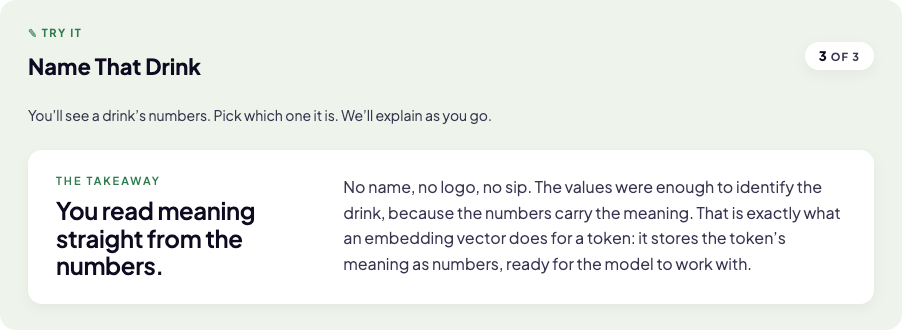
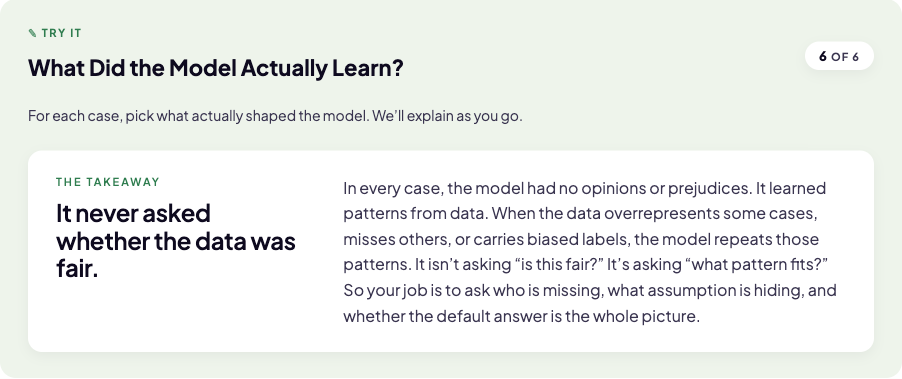
Embeddings: rework intro, Taste Profile table, defer "embedding vector", parallel Name That Drink
- Open the vector explanation with the taste-test setup (vector /
  Dimension / Value only); drop the [9,1,10,2,3,8] and embedding-vector
  paragraphs
- Taste Profile: rename Coffee, add a Token ID column, group the six
  slots under a Dimensions header, add Token/Token ID headings
  (black/800, darker Dimensions rule)
- Rename "Black Coffee" -> "Coffee" across Embeddings and Vector Space
- Defer the term "embedding vector" out of Embeddings (now just
  "vector"); introduce it in Black Box where the embedding table and
  parameters debut
- Convert Name That Drink from sequential to parallel (ScenarioRow +
  FeedbackPill, per-option feedback); replace its Takeaway with a
  KeyInsight that reveals on completion
- Recapture docs/components/try-it-takeaway.png from "What Did the Model
  Actually Learn?" (Training Bias Trap) and update the README citation

Log the changes in briefing.md.

diff --git a/index.html b/index.html
@@ -4948,22 +4948,20 @@ function GoDeeper(props) {
 }
 function NameThatDrinkTryIt(props) {
   var E = React.createElement;
-  var _di = React.useState(0), drinkIdx = _di[0], setDrinkIdx = _di[1];
-  var _dg = React.useState(null), drinkGuess = _dg[0], setDrinkGuess = _dg[1];
-  var _ds = React.useState(true), drinkStarted = _ds[0], setDrinkStarted = _ds[1];
+  var _a = useState({}), answers = _a[0], setAnswers = _a[1];
   var questions = [
     {
       dims: [["Sweet", 9], ["Fizz", 10]],
       options: [
         { label: "\uD83E\uDD64 Coke", correct: true, headline: "Right.", feedback: "High sweet and high fizz point straight at Coke." },
-        { label: "\u2615 Black Coffee", correct: false, headline: "Not this one.", hint: "Coffee is not sweet, and it is not fizzy. Look at those two numbers again.", feedback: "Coffee is not sweet or fizzy. Those two numbers are screaming soda." }
+        { label: "\u2615 Coffee", correct: false, headline: "Not this one.", hint: "Coffee is not sweet, and it is not fizzy. Look at those two numbers again.", feedback: "Coffee is not sweet or fizzy. Those two numbers are screaming soda." }
       ]
     },
     {
       dims: [["Bitter", 9], ["Heat", 9]],
       options: [
         { label: "\uD83E\uDD64 Coke", correct: false, headline: "Not this one.", hint: "Coke is not bitter, and it is served cold. These numbers say something hot and bitter.", feedback: "Coke is cold and sweet, not hot and bitter. The numbers point elsewhere." },
-        { label: "\u2615 Black Coffee", correct: true, headline: "Right.", feedback: "High bitter and high heat is black coffee." }
+        { label: "\u2615 Coffee", correct: true, headline: "Right.", feedback: "High bitter and high heat is coffee." }
       ]
     },
     {
@@ -4976,67 +4974,69 @@ function NameThatDrinkTryIt(props) {
       ]
     }
   ];
-  var q = questions[Math.min(drinkIdx, questions.length - 1)];
-  var dimText = q.dims.map(function(d) { return d[0] + " of " + d[1]; }).join(" and ");
-  var statement = (q.title ? q.title + ": " : "") + "Which drink has " + dimText + "?";
-  var isLastDrink = drinkIdx === questions.length - 1;
+  var answeredCount = Object.keys(answers).length;
+  var done = answeredCount >= questions.length;
+  useEffect(function() { if (done && props && props.onComplete) props.onComplete(); }, [done]);
   return E(InteractiveBox, {
     variant: "try",
     surface: "mint",
     title: "Name That Drink",
-    action: E(ActivityCounter, { count: Math.min(drinkIdx + (drinkStarted ? 1 : 0), questions.length), total: questions.length })
+    action: E(ActivityCounter, { count: answeredCount, total: questions.length })
   },
-    E(ActivityInstruction, null, "You’ll see a drink’s numbers. Pick which one it is. We’ll explain as you go."),
-    E(RevealSequence, {
-      surface: "mint",
-      items: questions,
-      currentIdx: drinkIdx,
-      started: drinkStarted,
-      onStart: function() { setDrinkStarted(true); },
-      onNext: function() {
-        if (isLastDrink && props && props.onComplete) props.onComplete();
-        setDrinkIdx(function(i) { return i + 1; });
-        setDrinkGuess(null);
-      },
-      canAdvance: drinkGuess !== null,
-      isComplete: drinkIdx >= questions.length,
-      startLabel: "See First Drink",
-      nextLabel: "Next Drink →",
-      finishLabel: "Wrap it up →",
-      completionElement: E(Takeaway, { accent: "var(--tryAccent)", headline: "You read meaning straight from the numbers.", body: "No name, no logo, no sip. The values were enough to identify the drink, because the numbers carry the meaning. That is exactly what an embedding vector does for a token: it stores the token’s meaning as numbers, ready for the model to work with." })
-    },
-      E(InnerCard, null,
-        E(QuizBlock, {
-          key: drinkIdx,
-          questionNumber: drinkIdx + 1,
-          surface: "mint",
-          statement: statement,
-          totalQuestions: questions.length,
-          options: q.options,
-          picked: drinkGuess != null ? drinkGuess : undefined,
-          onAnswer: function(idx) { setDrinkGuess(idx); }
-        }))));
+    E(ActivityInstruction, null, "Each row shows a drink’s numbers. Read them and pick which drink it is."),
+    E(InnerCard, { style: { display: "flex", flexDirection: "column" } },
+      questions.map(function(q, i) {
+        var picked = answers[i];
+        var answered = picked !== undefined;
+        var opt = answered ? q.options[picked] : null;
+        return E(ScenarioRow, {
+          key: i,
+          index: i + 1,
+          kicker: q.title || null,
+          prompt: E(React.Fragment, null, "Which drink has ", E("strong", null, q.dims[0][0] + " of " + q.dims[0][1]), " and ", E("strong", null, q.dims[1][0] + " of " + q.dims[1][1]), "?"),
+          answered: answered,
+          correct: answered && opt.correct,
+          headline: answered ? opt.headline : null,
+          feedback: answered ? opt.feedback : null
+        }, q.options.map(function(o, oi) {
+          return E(FeedbackPill, {
+            key: oi,
+            answered: answered,
+            isCorrect: o.correct,
+            isPicked: picked === oi,
+            label: o.label,
+            onClick: function() { setAnswers(function(prev) { return Object.assign({}, prev, Object.fromEntries([[i, oi]])); }); }
+          });
+        }));
+      })));
 }
 function EmbeddingsSection(props) {
   var E = React.createElement;
   var _mc = useState(false), meaningComplete = _mc[0], setMeaningComplete = _mc[1];
   var tpDims = ["Sweet", "Bitter", "Fizz", "Heat", "Caffeine", "Dark"];
   var tpDrinks = [
-    { emoji: "🥤", name: "Coke", vals: [9, 1, 10, 2, 3, 8], pillBg: "#fbdfe2", pillFg: "#e6394d" },
-    { emoji: "☕", name: "Black Coffee", vals: [1, 9, 0, 9, 8, 10], pillBg: "#e7dcf4", pillFg: "#7b3aa6" }
+    { emoji: "🥤", name: "Coke", tokenId: 24317, vals: [9, 1, 10, 2, 3, 8], pillBg: "#fbdfe2", pillFg: "#e6394d" },
+    { emoji: "☕", name: "Coffee", tokenId: 51820, vals: [1, 9, 0, 9, 8, 10], pillBg: "#e7dcf4", pillFg: "#7b3aa6" }
   ];
-  var tpCols = "minmax(116px, 150px) repeat(6, minmax(50px, 1fr))";
-  var tpHead = { fontSize: 11, fontWeight: 700, color: "#6e6757", textTransform: "uppercase", letterSpacing: "1.5px" };
+  var tpCols = "minmax(110px, 150px) minmax(72px, 96px) repeat(6, minmax(46px, 1fr))";
+  var tpHead = { fontSize: 11, fontWeight: 800, color: "var(--ink)", textTransform: "uppercase", letterSpacing: "1.5px" };
+  var tpColHead = { fontSize: 11, fontWeight: 700, color: "#6e6757", textTransform: "uppercase", letterSpacing: "0.6px", textAlign: "center" };
+  var tpColHeadBold = { fontSize: 11, fontWeight: 800, color: "var(--ink)", textTransform: "uppercase", letterSpacing: "0.6px", textAlign: "center" };
   var tasteProfile = E("div", { style: { width: "100%", maxWidth: 880, margin: "0 auto 16px", background: "var(--primaryFaint)", borderRadius: 20, padding: "28px 32px" } },
-    E("div", { style: { fontFamily: "var(--sans)", fontSize: 20, fontWeight: 800, color: "var(--ink)", lineHeight: 1.3, marginBottom: 18 } }, "Taste Profile · Coke vs. Black Coffee"),
+    E("div", { style: { fontFamily: "var(--sans)", fontSize: 20, fontWeight: 800, color: "var(--ink)", lineHeight: 1.3, marginBottom: 18 } }, "Taste Profile · Coke vs. Coffee"),
     E("div", { style: { background: "#ffffff", borderRadius: 16, boxShadow: "0 1px 3px rgba(20,17,11,0.04)", overflowX: "auto" } },
-      E("div", { style: { display: "grid", gridTemplateColumns: tpCols, alignItems: "center", gap: 8, padding: "16px 24px", borderBottom: "1px solid #ece4f1", minWidth: 470 } },
-        E("div", { style: tpHead }, "Dimension"),
-        tpDims.map(function(d, i) { return E("div", { key: i, style: { fontSize: 11, fontWeight: 700, color: "#6e6757", textTransform: "uppercase", letterSpacing: "0.6px", textAlign: "center" } }, d); })),
+      E("div", { style: { display: "grid", gridTemplateColumns: tpCols, alignItems: "end", gap: 8, padding: "16px 24px 0", minWidth: 520 } },
+        E("div", null), E("div", null),
+        E("div", { style: { gridColumn: "span 6", textAlign: "center", paddingBottom: 7, borderBottom: "2px solid #8b81a3", fontSize: 11, fontWeight: 800, color: "var(--ink)", textTransform: "uppercase", letterSpacing: "1.5px" } }, "Dimensions")),
+      E("div", { style: { display: "grid", gridTemplateColumns: tpCols, alignItems: "center", gap: 8, padding: "10px 24px 14px", borderBottom: "1px solid #ece4f1", minWidth: 520 } },
+        E("div", { style: tpHead }, "Token"),
+        E("div", { style: tpColHeadBold }, "Token ID"),
+        tpDims.map(function(d, i) { return E("div", { key: i, style: tpColHead }, d); })),
       tpDrinks.map(function(dr, di) {
-        return E("div", { key: di, style: { display: "grid", gridTemplateColumns: tpCols, alignItems: "center", gap: 8, padding: "14px 24px", borderTop: di === 0 ? "none" : "1px solid #f0ecf6", minWidth: 470 } },
+        return E("div", { key: di, style: { display: "grid", gridTemplateColumns: tpCols, alignItems: "center", gap: 8, padding: "14px 24px", borderTop: di === 0 ? "none" : "1px solid #f0ecf6", minWidth: 520 } },
           E("div", null,
             E("span", { style: { background: dr.pillBg, color: dr.pillFg, fontWeight: 700, fontSize: BOX_TEXT, padding: "6px 12px", borderRadius: 999, display: "inline-flex", alignItems: "center", gap: 7, whiteSpace: "nowrap" } }, dr.emoji, dr.name)),
+          E("div", { style: { textAlign: "center", fontFamily: "var(--mono)", fontSize: 14, fontWeight: 600, color: "var(--inkMuted)" } }, dr.tokenId),
           dr.vals.map(function(v, vi) {
             return E("div", { key: vi, style: { textAlign: "center", fontSize: 17, fontWeight: 800, color: dr.pillFg } }, v);
           }));
@@ -5044,9 +5044,9 @@ function EmbeddingsSection(props) {
   return /*#__PURE__*/E("div", null,
     /*#__PURE__*/E(LessonHeader, { sectionId: "embeddings" }),
   E(BodyP, null,
-    "You\u2019ve learned that an LLM turns text into token IDs. But that\u2019s just a number. It doesn\u2019t say anything about what it means."),
+    "You\u2019ve learned that AI turns text into token IDs. But that\u2019s just a number. It doesn\u2019t say anything about what it means."),
   E(BodyP, null,
-    "It\u2019s the same as your Student ID. It might let you in the building, but it doesn\u2019t tell anyone whether you are funny, into hockey, or the person who steals fries at lunch."),
+    "It\u2019s the same as the number assigned to your Student ID. It might let you in the building, but it doesn\u2019t tell anyone whether you are funny, into hockey, or the person who steals fries at lunch."),
   E("img", {
     src: "illustrations/embeddings.jpg",
     alt: "Four high-school students in shirts and ties at a cafeteria table; one standing student is comically loaded with handfuls of fries",
@@ -5057,33 +5057,26 @@ function EmbeddingsSection(props) {
     E("strong", null, "Embedding"),
     "."),
   E(BodyP, null,
-    "To see how this works, we\u2019ll build a ",
-    E("strong", null, "simple example by hand"),
-    ", labeling each dimension ourselves so you can see how a list of numbers can describe meaning."),
+    "To see how this works, you and your friends decide to rate Coke and a cup of coffee on six characteristics: Sweet, Bitter, Fizz, Heat, Caffeine, and Dark."),
   E(BodyP, null,
-    "You and your friends decide to rate Coke and a cup of black coffee based on six dimensions. Here are your results."),
+    "Here are your results. We added a column for Token ID, even though that wasn\u2019t part of your test."),
   tasteProfile,
   E(BodyP, { style: { marginTop: 18 } },
-    "In your taste test, Coke\u2019s row of numbers is ",
-    E("strong", null, "[9, 1, 10, 2, 3, 8]"),
-    ". The order matters: sweet, bitter, fizz, heat, caffeine, and darkness."),
+    "If someone asked you, \u201cWhich drink has sweet of 9, bitter of 1, and fizz of 10?\u201d you\u2019d immediately answer Coke."),
   E(BodyP, null,
-    "A row of numbers in a specific order like this is called a ",
-    E("strong", null, "vector"),
+    "By rating each drink on those dimensions, you\u2019ve done what AI does on a massive scale: you\u2019ve represented a word with a row of numbers."),
+  E(BodyP, null,
+    "A row of numbers in a specific order, like this, is called a ",
+    E("strong", null, "Vector"),
     ". Each slot (Sweet, Bitter, etc.) is a ",
-    E("strong", null, "dimension"),
+    E("strong", null, "Dimension"),
     ". And each number is a ",
-    E("strong", null, "value"),
+    E("strong", null, "Value"),
     "."),
-  E(BodyP, null,
-    "When a model uses a vector to represent one token, we call it an ",
-    E("strong", null, "embedding vector"),
-    ". This is the AI\u2019s ",
-    E("strong", null, "starting"),
-    " meaning for a token, before the surrounding words refine it in later layers."),
   E(NameThatDrinkTryIt, { onComplete: function() { setMeaningComplete(true); } }),
+  meaningComplete ? E(KeyInsight, { lead: "You read meaning straight from the numbers." }, "The values alone were enough to name the drink, because the numbers carry the meaning. That is exactly what a vector does for a token: it stores the token’s meaning as numbers, ready for the model to work with.") : null,
   E(SectionKicker, null, "DO WE NEED MORE DIMENSIONS?"),
-  E(BodyP, null, "Six dimensions were enough to tell Coke from black coffee. But in the last question, they weren\u2019t enough to tell Coke from Pepsi."),
+  E(BodyP, null, "Six dimensions were enough to tell Coke from coffee. But in the last question, they weren\u2019t enough to tell Coke from Pepsi."),
   E(BodyP, null,
     "They differ in subtler ways, too. You could add one more dimension, say, \u201cCitrus,\u201d and Pepsi scores a 10 while Coke sits near 0."),
   E(BodyP, null,
@@ -5103,12 +5096,12 @@ function EmbeddingsSection(props) {
         E("div", { style: { display: "flex", flexDirection: "column", alignItems: "center", gap: 2 } },
           E("span", { style: { color: "var(--primary)", fontWeight: 800, fontSize: 16, lineHeight: 1 } }, "→"),
           E("span", { style: { fontSize: 11, color: "var(--inkMuted)" } }, "look up")),
-        E("span", { style: { fontWeight: 800, fontSize: 15, color: "var(--ink)" } }, "embedding vector")),
+        E("span", { style: { fontWeight: 800, fontSize: 15, color: "var(--ink)" } }, "vector")),
       E("div", { style: { borderTop: "1px dashed var(--rule)", marginBottom: 16 } }),
       E("div", { style: { fontFamily: "var(--mono)", fontSize: BOX_TEXT, fontWeight: 700, color: "#8b5cf6", lineHeight: 1.6, wordBreak: "break-all", marginBottom: 10 } }, "[0.12, -0.48, 1.03, 0.07, -0.91, 0.44, 0.18, -0.36, 0.81, -0.05, 0.59, -1.27, 0.33, 0.92, -0.14, 0.67, -0.72, 0.21, ... thousands more]"),
       E("div", { style: { fontSize: BOX_TEXT, color: "var(--inkSoft)", lineHeight: 1.5 } }, "The slots are learned during training. They don\u2019t come with clean human-readable labels."))),
-  /*#__PURE__*/React.createElement(SectionKicker, null, "Does every token get its own embedding vector?"),
-  /*#__PURE__*/React.createElement(BodyP, null, "Yes. Remember how \u2018unbelievable\u2019 became three tokens? Each one (\u2018un\u2019, \u2018believ\u2019, \u2018able\u2019) gets its own embedding vector with thousands of values. The model does not start with the meaning of the full word. Combining those pieces into the meaning of the whole word happens later, in the layers."),
+  /*#__PURE__*/React.createElement(SectionKicker, null, "Does every token get its own vector?"),
+  /*#__PURE__*/React.createElement(BodyP, null, "Yes. Remember how \u2018unbelievable\u2019 became three tokens? Each one (\u2018un\u2019, \u2018believ\u2019, \u2018able\u2019) gets its own vector with thousands of values. The model does not start with the meaning of the full word. Combining those pieces into the meaning of the whole word happens later, in the layers."),
   /*#__PURE__*/React.createElement(LessonRule, null),
   /*#__PURE__*/React.createElement(NextLessonGate, { ready: meaningComplete, onClick: () => props.completeAndNavigate && props.completeAndNavigate("vectorspace"), label: "Next: Vector Space" }));
 }
@@ -5118,12 +5111,12 @@ function VectorSpaceSection(props) {
   var vsDrinks = [
     { emoji: "🥤", name: "Coke", vals: [9, 1, 10, 2, 3, 8, 1], pillBg: "#fbdfe2", pillFg: "#e6394d" },
     { emoji: "🥤", name: "Pepsi", vals: [9, 1, 10, 2, 3, 8, 10], pillBg: "#dbe6fb", pillFg: "#2f6fd6" },
-    { emoji: "☕", name: "Black Coffee", vals: [1, 9, 0, 9, 8, 10, 0], pillBg: "#e7dcf4", pillFg: "#7b3aa6" }
+    { emoji: "☕", name: "Coffee", vals: [1, 9, 0, 9, 8, 10, 0], pillBg: "#e7dcf4", pillFg: "#7b3aa6" }
   ];
   var vsCols = "minmax(116px, 150px) repeat(7, minmax(44px, 1fr))";
   var vsHead = { fontSize: 11, fontWeight: 700, color: "#6e6757", textTransform: "uppercase", letterSpacing: "1.5px" };
   var vsTasteProfile = E("div", { style: { width: "100%", maxWidth: 880, margin: "0 auto 20px", background: "var(--primaryFaint)", borderRadius: 20, padding: "28px 32px" } },
-    E("div", { style: { fontFamily: "var(--sans)", fontSize: 20, fontWeight: 800, color: "var(--ink)", lineHeight: 1.3, marginBottom: 18 } }, "Taste Profile · Coke vs. Pepsi vs. Black Coffee"),
+    E("div", { style: { fontFamily: "var(--sans)", fontSize: 20, fontWeight: 800, color: "var(--ink)", lineHeight: 1.3, marginBottom: 18 } }, "Taste Profile · Coke vs. Pepsi vs. Coffee"),
     E("div", { style: { background: "#ffffff", borderRadius: 16, boxShadow: "0 1px 3px rgba(20,17,11,0.04)", overflowX: "auto" } },
       E("div", { style: { display: "grid", gridTemplateColumns: vsCols, alignItems: "center", gap: 8, padding: "16px 24px", borderBottom: "1px solid #ece4f1", minWidth: 470 } },
         E("div", { style: vsHead }, "Dimension"),
@@ -5141,7 +5134,7 @@ function VectorSpaceSection(props) {
     E(BodyP, null,
       "Embeddings turn each token into a vector of numbers. But those numbers aren\u2019t just for storage. They let the model do something powerful: compare meanings."),
     E(BodyP, null,
-      "The table below extends your taste test, adding the Citrus dimension we floated earlier and a new row for Pepsi. (Remember: real dimensions are learned, not hand-labeled.) Coke and Pepsi are identical except for citrus. Based on these example vectors, Coke and Pepsi are more similar drinks than either one is to black coffee."),
+      "The table below extends your taste test, adding the Citrus dimension we floated earlier and a new row for Pepsi. (Remember: real dimensions are learned, not hand-labeled.) Coke and Pepsi are identical except for citrus. Based on these example vectors, Coke and Pepsi are more similar drinks than either one is to coffee."),
     vsTasteProfile,
     E(BodyP, null,
       "Two vectors that are close usually mean related things. Two vectors that are far apart usually mean less related things."),
@@ -5149,7 +5142,7 @@ function VectorSpaceSection(props) {
     E(BodyP, null,
       "The model measures this with ",
       E("strong", null, "distance"),
-      ": how far apart two vectors are when you add up the gap in every dimension, not just a count of which slots differ. Coke and Pepsi are identical on six of the seven dimensions and differ on only one (citrus), so those gaps add up to a short distance. Coke and Black Coffee differ across nearly every dimension, so the gaps pile up and they sit far apart."),
+      ": how far apart two vectors are when you add up the gap in every dimension, not just a count of which slots differ. Coke and Pepsi are identical on six of the seven dimensions and differ on only one (citrus), so those gaps add up to a short distance. Coke and Coffee differ across nearly every dimension, so the gaps pile up and they sit far apart."),
 
     E(BodyP, null,
       "Close doesn\u2019t always mean identical. Coke and Pepsi sit close together, but the model still keeps them distinct: nearby is not the same as interchangeable."),
@@ -5248,7 +5241,9 @@ function BehindTheNumbersSection(props) {
 
     E(SectionKicker, null, "THE PIECES, INSIDE ONE BOX"),
     E(BodyP, null,
-      "You’ve already met almost everything in here. Three of the five pieces come straight from the taste test: dimensions, values, and the embedding vector. The embedding table and parameters are new here. The picture summarizes them all. Notice that the dimensions aren’t named: that’s exactly why it’s called the black box, since we don’t know what the model tracks in each one."),
+      "You’ve already met most of this. From the taste test you know dimensions, values, and the vector. Here that vector earns its full name: when one stands for a single token, pulled from the embedding table, it’s the token’s ",
+      E("strong", null, "embedding vector"),
+      ". The embedding table and parameters are new. The picture summarizes them all. Notice that the dimensions aren’t named: that’s exactly why it’s called the black box, since we don’t know what the model tracks in each one."),
 
     E("img", {
       src: "illustrations/black-box-2.jpg",

diff --git a/briefing.md b/briefing.md
@@ -42,6 +42,10 @@ Update (2026-06-16): Study with AI (`studying`) was refocused on NotebookLM and 
 
 Update (2026-06-17): Tokens (`tokens`) was reframed to motivate tokenization before naming it. The opener now shows a real chat exchange (static UserBubble/AIBubble on the "best Avengers movie" prompt) to make the humans-read-language vs. computers-read-numbers contrast concrete, then walks a failed naive fix (give every English word its own number → millions, and still can't cover unseen words) into the reusable-chunks idea, illustrated by a new "One chunk, thousands of words" ShowcaseBox (the `un` chip shared across unbelievable/unmatchable/untied). Only then are tokenization, tokens, and token ID named (the token-ID line now frames the ID as a meaningless address, bridging to Embeddings). The cat-vs-AI CompareBox and the "how text is split" examples are unchanged. The former "How the token vocabulary is built" section was cut down to a single line ("Once it’s built, the model uses that same fixed vocabulary..."); the per-model vocabulary sizes (ChatGPT ~200k, Gemini 256k, Claude not published) now sit inline in the tokenization paragraph instead. Copy/structure only; lesson map and counts unchanged.
 
+Update (2026-06-17): Embeddings (`embeddings`) was reworked and the term **embedding vector** was deferred out of it. The intro after the Student-ID analogy now leads with the taste-test setup ("If someone asked you, 'Which drink has sweet of 9...'") and keeps only vector / dimension / value; the old "[9, 1, 10, 2, 3, 8] / order matters" line and the "embedding vector / starting meaning" paragraph were cut. The Taste Profile table gained a **Token ID** column (illustrative IDs >10k, muted gray) and a **Dimensions** group header over the six characteristic slots, with **Token / Token ID** column headings (top-level headers black/800, the line under Dimensions darkened); "Black Coffee" was renamed "Coffee" everywhere in Embeddings and Vector Space. Within Embeddings the lesson now says **vector** (cat→9246→vector box, the "Does every token get its own vector?" Q&A, and the Name That Drink activity). **embedding vector** is now first introduced in Black Box (`insidethemodel`), where the "five pieces" prose names it ("when one stands for a single token, pulled from the embedding table, it’s the token’s embedding vector") just before the MatchTerms checkpoint that tests it — so the term debuts where the embedding table and parameters do. Inference was unaffected (it already used "vector"/"starting meaning", not the term). Lesson map and counts unchanged.
+
+Update (2026-06-17): the "Name That Drink" TRY IT in Embeddings was converted from sequential (Pattern 1: RevealSequence + mint QuizBlock, gated retry-until-correct) to parallel (Pattern 2: ScenarioRow + FeedbackPill, all three rows visible at once with per-option feedback; the trick "Not Enough Info" row keeps its per-pick feedback). The Pattern-1 `Takeaway` ("You read meaning straight from the numbers… that's exactly what a vector does for a token") was removed and re-homed as a `KeyInsight` that renders right after the activity once all three are answered (gated on `meaningComplete`). This activity was the source for `docs/components/try-it-takeaway.png` and the README's "TRY IT — completed, with Takeaway" example; since it no longer has a Takeaway, that screenshot was recaptured from "What Did the Model Actually Learn?" in Training Bias Trap (`trainingbias`, still sequential) and the README citation updated.
+
 ## Design system
 
 ### Tokens (CSS custom properties, defined in :root)

diff --git a/docs/components/README.md b/docs/components/README.md
@@ -19,7 +19,7 @@ A `RevealSequence` steps through items one at a time (here an `InnerCard` scenar
 ![TRY IT sequential](try-it-sequential.png)
 
 ### TRY IT — completed, with Takeaway
-Sequential TRY ITs end on a `Takeaway` (the RevealSequence's `completionElement`), which makes a conceptual point and marks completion. Parallel TRY ITs do NOT carry a Takeaway. Example: "Name That Drink" in Embeddings (`embeddings`).
+Sequential TRY ITs end on a `Takeaway` (the RevealSequence's `completionElement`), which makes a conceptual point and marks completion. Parallel TRY ITs do NOT carry a Takeaway. Example: "What Did the Model Actually Learn?" in Training Bias Trap (`trainingbias`). Recaptured 2026-06-17 (the former source, "Name That Drink" in Embeddings, was converted to a parallel TRY IT).
 
 ![TRY IT completed with Takeaway](try-it-takeaway.png)
 